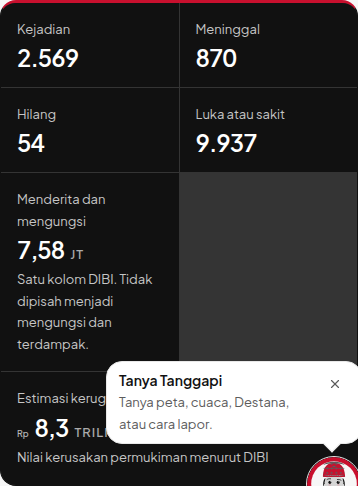
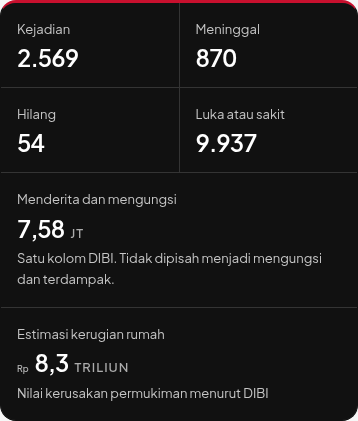
FE-65: refresh tile and settings screenshots
Recapture the 390 DIBI band in both themes and the light settings panel so the journal shows both long tiles full width and the corrected raster/vector hint.

diff --git a/docs/pengembangan/jurnal/FE-65.md b/docs/pengembangan/jurnal/FE-65.md
@@ -6,9 +6,9 @@ Status: selesai
 
 ## Niat
 
-- Tujuan: Merapikan sisa tinjauan setelah FE-64. Salinan kartu analisis mengikuti katalog Aceh Tangguh, gelembung Tanggapi tidak menutupi kontrol, label cuaca Sedang tidak memakai merah merek, catatan basemap menyebut OSM/OpenFreeMap, footer mencantumkan DIBI BNPB, dan ubin keenam hero DIBI di 390 selebar dua kolom dengan satuan minimal 13px.
+- Tujuan: Merapikan sisa tinjauan setelah FE-64. Salinan kartu analisis mengikuti katalog Aceh Tangguh, gelembung Tanggapi tidak menutupi kontrol, label cuaca Sedang tidak memakai merah merek, catatan basemap membedakan raster OSM (Carto bila kunci terpasang) dari vektor OSM, footer mencantumkan DIBI BNPB, dan ubin kelima serta keenam hero DIBI di 390 selebar dua kolom dengan satuan 13px.
 - Berkas: `messages/id.json`, `messages/en.json`, `src/components/beranda/AksiPanel.tsx`, `src/components/beranda/FiturSection` tidak diubah selain salinan, `src/components/SiteNav.tsx`, `src/components/panduan/GuideBot.tsx`, `src/components/beranda/DataHero.tsx`, `src/components/beranda/PeringatanBento.tsx`, `src/components/beranda/CuacaStrip.tsx`, `src/components/weather/WeatherStrip.tsx`, `src/components/weather/WeatherKabCard.tsx`, `src/components/beranda/primitives.tsx`, `src/components/map/MapSettings.tsx`, `src/lib/data-sources.ts`, `src/lib/dibi-guard.ts`, `scripts/dibi-guard.mjs`, `scripts/fetch-dibi-aceh.mjs`, `.github/workflows/dibi-refresh.yml`, `package.json`, uji terkait, jurnal ini.
-- Langkah: Ganti `analisisIsi`. Hapus kunci `aksi.destanaNama` / `aksi.destanaIsi` dan kartu Destana di `AksiPanel` yang tidak terpasang. Sembunyikan Tanggapi saat menu seluler terbuka, dan naikkan tumpukan filter, kartu peringatan, serta kartu kebakaran hutan di atas widget. Label Sedang pada kartu cuaca memakai chip netral tinta. Salinan basemap dan padding bawah panel Pengaturan. `assessDibiLive` menolak `by_kabupaten` kosong. Input `force` pada workflow DIBI hanya mengirim `force` ke kueri Superset; jadwal tetap `false`. Footer menambah baris katalog `dibi-aceh` berlabel DIBI BNPB. Ubin keenam `col-span-2` di bawah `sm`. Satuan `Figure` minimal 13px. Kutip glob `scripts/**/*.test.mjs`.
+- Langkah: Ganti `analisisIsi`. Hapus kunci `aksi.destanaNama` / `aksi.destanaIsi` dan kartu Destana di `AksiPanel` yang tidak terpasang. Sembunyikan Tanggapi saat menu seluler terbuka, dan naikkan tumpukan filter, kartu peringatan, pita `#dibi`, serta kartu kebakaran hutan di atas widget. Label Sedang pada kartu cuaca memakai chip netral tinta. Salinan basemap dan padding bawah panel Pengaturan. `assessDibiLive` menolak `by_kabupaten` kosong. Input `force` pada workflow DIBI hanya mengirim `force` ke kueri Superset; jadwal tetap `false`. Footer menambah baris katalog `dibi-aceh` berlabel DIBI BNPB. Ubin kelima dan keenam `col-span-2` di bawah `sm`, `sm:col-span-1` di atasnya. Satuan `Figure` 13px. Kutip glob `scripts/**/*.test.mjs`.
 - Cara membuktikan: `npm test`, `npm run typecheck`, `npm run lint`. Tangkapan sebelum dan sesudah, 1440 dan 390, terang dan gelap bila relevan, di `docs/pengembangan/jurnal/fe-65/`.
 - Risiko: Jangan mengubah nama atau bendera partai. Jangan mengubah nilai data, perilaku rute API, env, atau migrasi. Jangan menghapus `useAnggaran` / `usePrrpka` karena dasbor `/admin` masih memakai keduanya lewat `PemulihanPanel`. Jangan menghapus `scripts/build-r3p-kab-pmtiles.py` karena `package.json` `build:r3p-kab-tiles` masih menunjuknya. Jangan mengarang angka.
 
@@ -18,7 +18,7 @@ Kunci Destana yang dihapus hanya `beranda.aksi.destanaNama` dan `destanaIsi`. Na
 
 ## Perubahan
 
-Salinan kartu analisis memakai katalog Aceh Tangguh. Kunci `aksi.destanaNama` dan `aksi.destanaIsi` dihapus, bersama kartu Destana di `AksiPanel` yang tidak terpasang. Nav Destana dan halaman Destana tetap. Widget Tanggapi bersembunyi saat `data-mobile-nav` terbuka dan duduk di `z-30`; filter hero dan bagian peringatan di `z-40`. Label cuaca Sedang memakai tinta netral, bukan `--warn`. Catatan basemap menyebut OSM/OpenFreeMap. Panel Pengaturan menjadi kolom di atas tombolnya, dengan padding bawah. `assessDibiLive` menolak kabupaten kosong. Workflow DIBI menerima `force` untuk melewati cache Superset dan menulis ringkasan jika gagal. Footer menambah DIBI BNPB dari id katalog `dibi-aceh`. Ubin kerugian di 390 selebar dua kolom. Satuan `Figure` 13px. Glob `scripts/**/*.test.mjs` dikutip.
+Salinan kartu analisis memakai katalog Aceh Tangguh. Kunci `aksi.destanaNama` dan `aksi.destanaIsi` dihapus, bersama kartu Destana di `AksiPanel` yang tidak terpasang. Nav Destana dan halaman Destana tetap. Widget Tanggapi bersembunyi saat `data-mobile-nav` terbuka dan duduk di `z-30`; filter hero, pita `#dibi`, dan bagian peringatan di `z-40`. Label cuaca Sedang memakai tinta netral, bukan `--warn`. Catatan basemap menyebut raster OSM, Carto bila kunci terpasang, dan vektor OSM yang jatuh ke raster. Panel Pengaturan menjadi kolom di atas tombolnya, dengan padding bawah. `assessDibiLive` menolak kabupaten kosong. Workflow DIBI menerima `force` untuk melewati cache Superset dan menulis ringkasan jika gagal. Footer menambah DIBI BNPB dari id katalog `dibi-aceh`. Ubin "Menderita dan mengungsi" dan "Estimasi kerugian rumah" di 390 selebar dua kolom. Di 1440 keenam ubin tetap satu baris. Satuan `Figure` 13px. Glob `scripts/**/*.test.mjs` dikutip.
 
 Tidak dihapus: `useAnggaran` dan `usePrrpka`, karena `PemulihanPanel` di `/admin` masih memanggil keduanya. Tidak dihapus: `scripts/build-r3p-kab-pmtiles.py`, karena `build:r3p-kab-tiles` masih menunjuknya.
 
@@ -40,9 +40,9 @@ Kartu "Kebakaran hutan dan lahan" (SIPONGI, chip WASPADA) di 1440: bagian `#stat
 
 Label "Sedang" terang `rgb(17, 17, 17)`, 13px. Gelap `rgb(255, 255, 255)`, 13px.
 
-Catatan panel: "OSM/OpenFreeMap raster · Esri · Sentinel-2 · tiga preset merek (vektor OSM, jatuh ke OSM jika gagal)." Setelah digulung ke catatan, dasar catatan 799, dasar panel 824, puncak tombol 832. Jarak 33px. Catatan di dalam panel.
+Catatan panel: "Raster OSM (Carto jika kunci terpasang) · Esri · Sentinel-2 · tiga preset merek (vektor OSM, jatuh ke raster jika gagal)." Kotak vektor: "Coba OpenFreeMap vektor (jika gagal, kembali ke raster)". Setelah digulung ke catatan, dasar catatan 799, dasar panel 824, puncak tombol 832. Jarak 33px. Catatan di dalam panel.
 
-Ubin DIBI 390: enam sel. Sel terakhir lebar 356px, sama dengan grid. Satuan "triliun" 13px.
+Ubin DIBI 390, terang dan gelap: enam sel, tidak ada sel kosong. Empat ubin angka pendek 178px. Ubin kelima dan keenam masing-masing 356px, sama dengan lebar grid. Satuan "jt" dan "triliun" 13px. Pita `#dibi` `z-index` 40, widget 30. `elementFromPoint` di tengah ubin kelima mengenai pita, bukan widget. Di 1440 grid enam kolom, tiap sel 191px.
 
 Footer Sumber: BNPB IRBI, Spreadsheet R3P, BPBA, Tanggapi, DIBI BNPB.
 
@@ -53,7 +53,7 @@ Tautan `layers` pada `PetaPanel`, `MapTeaserSection`, dan tabel kejadian memetak
 - [x] Salinan kartu analisis dan kunci Destana kartu
 - [x] Gelembung Tanggapi tidak menutupi menu, filter, kartu PD, atau chip kebakaran hutan
 - [x] Label Sedang cuaca terang memakai tinta netral
-- [x] Salinan basemap OSM/OpenFreeMap dan catatan panel tidak tertutup tombol
+- [x] Salinan basemap raster OSM / vektor OSM dan catatan panel tidak tertutup tombol
 - [x] Hook anggaran yang masih dipakai tidak dihapus
 - [x] Tautan `?layers=` cocok dengan kunci hidup
 - [x] Glob uji dikutip
@@ -61,7 +61,7 @@ Tautan `layers` pada `PetaPanel`, `MapTeaserSection`, dan tabel kejadian memetak
 - [x] Workflow DIBI punya `force` dan ringkasan gagal
 - [x] Footer Sumber memuat DIBI BNPB
 - [x] Skrip PMTiles yang masih dirujuk tidak dihapus
-- [x] Ubin 6 hero DIBI di 390 selebar dua kolom, satuan minimal 13px
+- [x] Ubin 5 dan 6 hero DIBI di 390 selebar dua kolom, tanpa sel kosong, satuan 13px, desktop enam kolom
 - [x] Quality lokal hijau
 
 ## Keputusan
